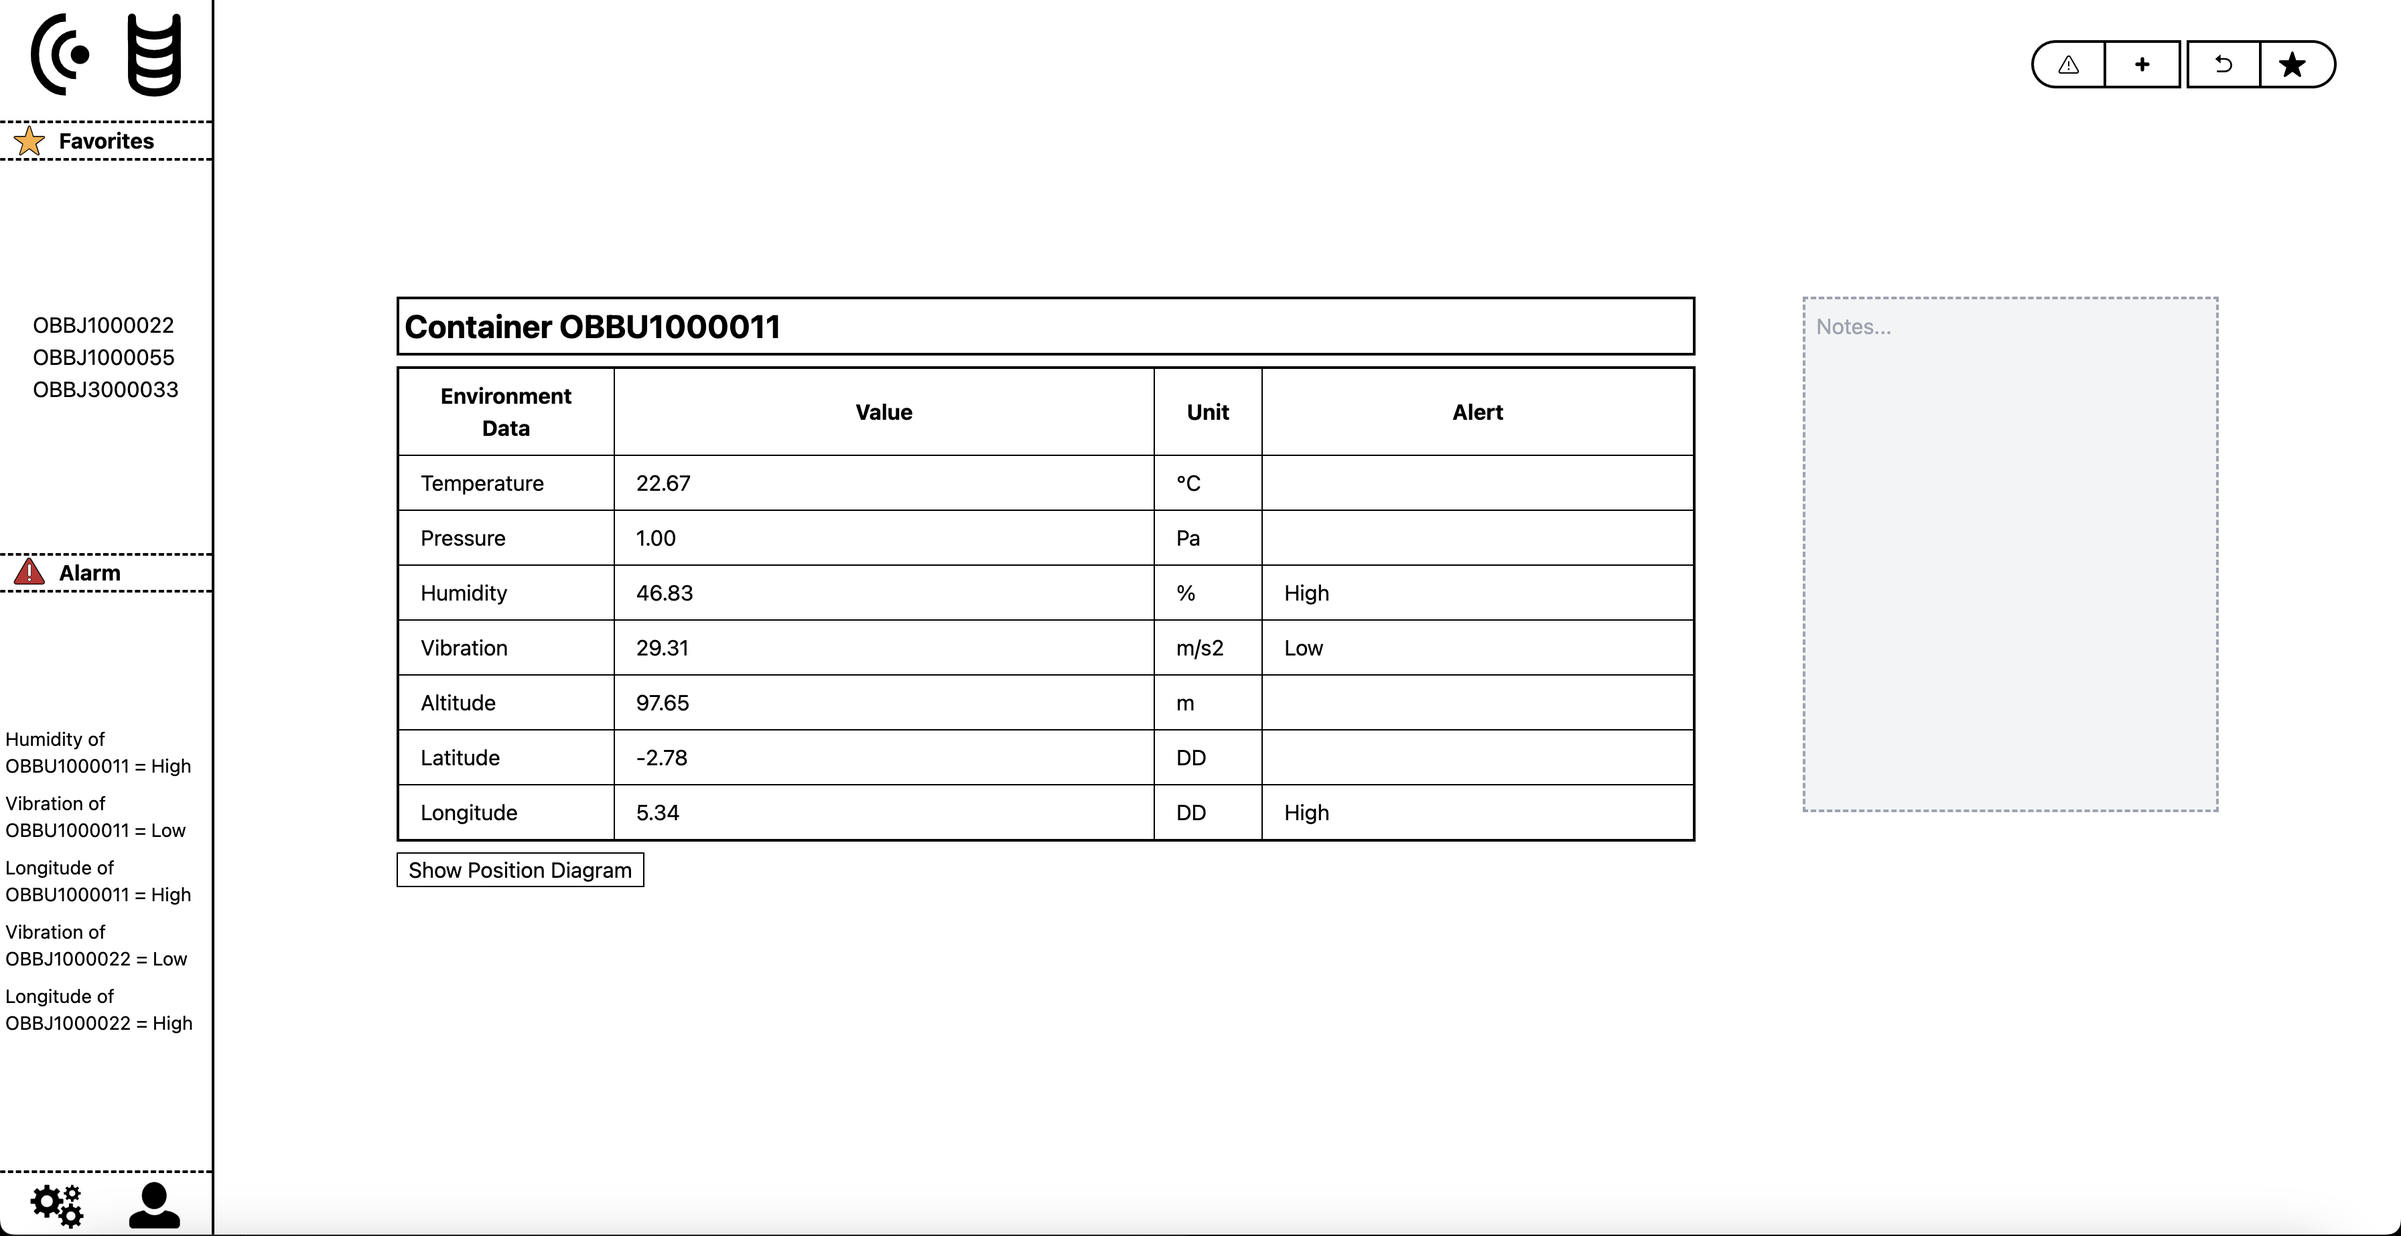
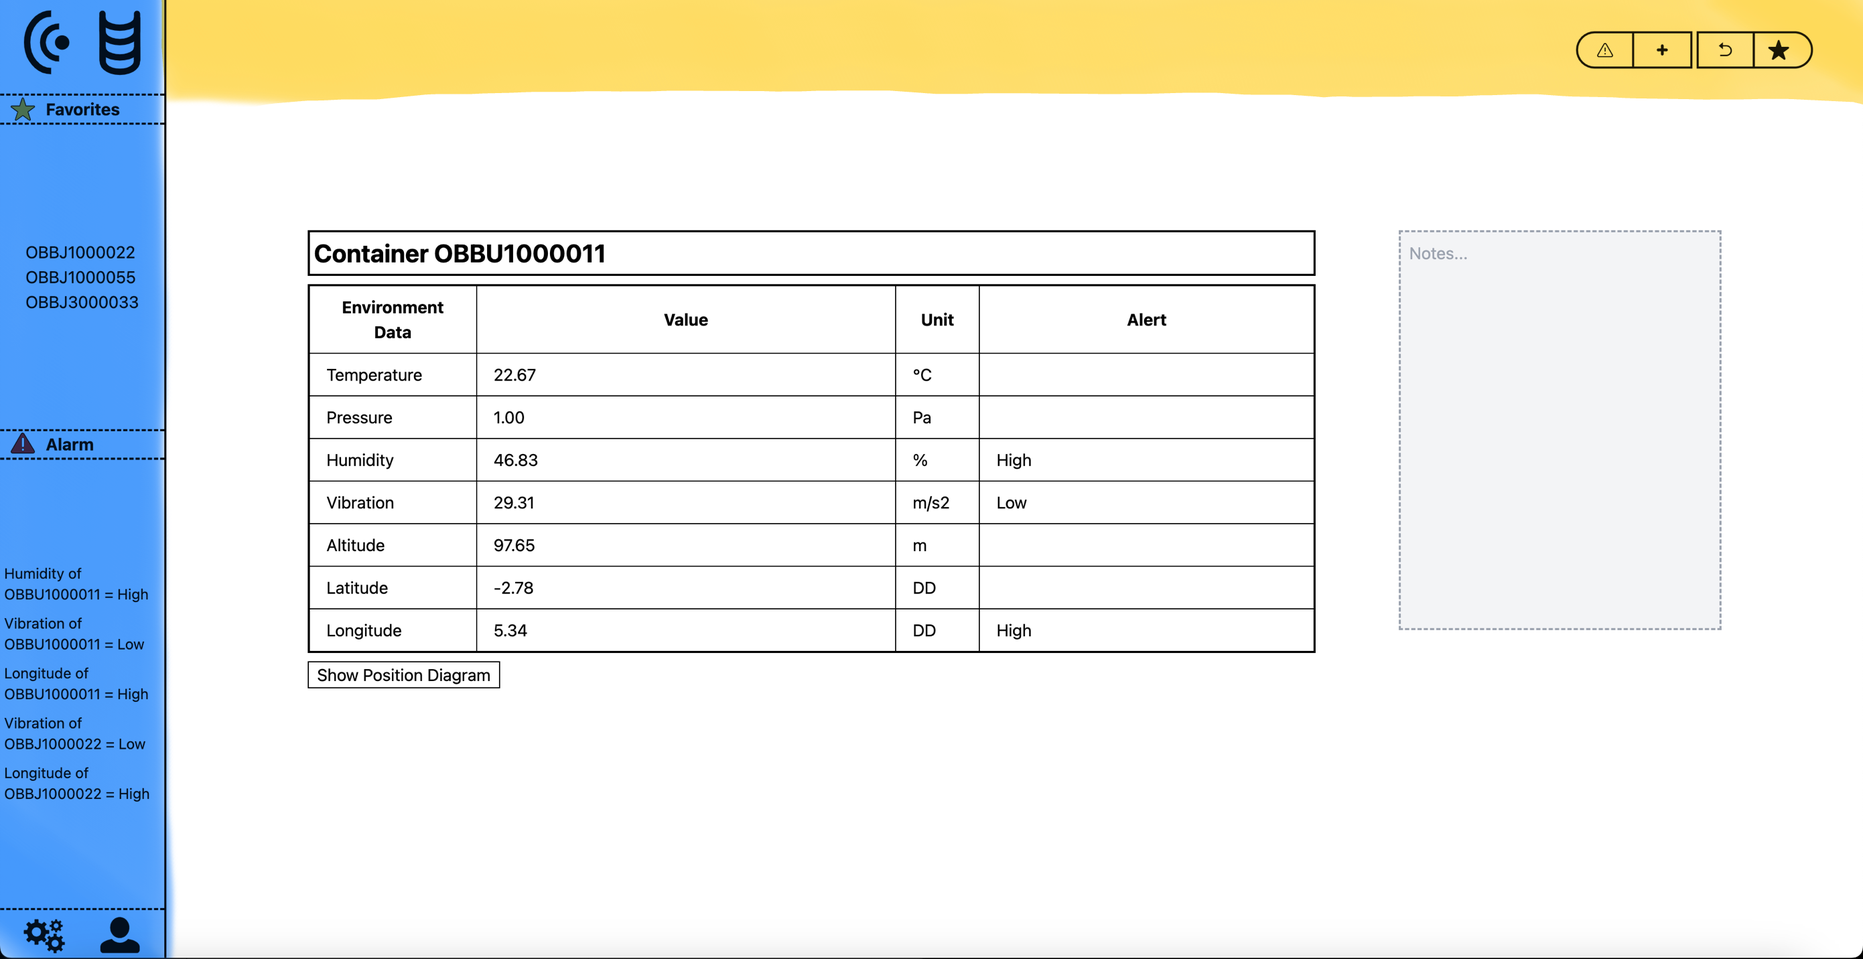
33-Gekle slight updates to text and pictures #77

Changed region(s): [[0.0, 0.0, 1.0, 1.0]]

diff --git a/Diplomarbeit/33-ausarbeitung-gekle.md b/Diplomarbeit/33-ausarbeitung-gekle.md
@@ -568,6 +568,8 @@ Als Basis-Signal wurde willkürlich 15 hergenommen, dieser Wert wird dann um ein
 
 Was würde es nun bewirken, wenn `randomNum` weiter verstreut wird (z. B., 0.1 bis 10)? Würde man diese Umstellung im Simulator umsetzen, dann steigt der Wert, um welchen das Basis-Signal (15) erhöht werden KANN (auch eine Verringerung ist natürlich möglich). Dies bedeutet, dass der Wahrscheinlichkeit, dass folgender Fall eintrifft: `cont.getSignalMinimum() <= signal => TRUE` steigt, was wiederum bedeutet, dass die Vernetzung zwischen den Containern dichter wird. Anders sinkt die Eintritts-Wahrscheinlichkeit des Ausdrucks, wenn `randomNum` verringert wird (z.B. auf 0.01 bis 0.1).
 
+Es sollte angemerkt werden, dass der Simulator nicht 100% realitätsgetreu ein Netz an Containern erstellen kann. So wird z.B. noch nicht gewährleistet, dass die empfangene Stärke des Signals mit steigender Distanz zum Ausgangs-Container absinkt. Dies kann aber in Zukunft noch umgesetzt werden.
+
 #### Verwendung der Daten (Funktionen des Simulators)
 Ist die Anzahl der Container erst einmal eingegeben, so wird der User mit folgendem konfrontiert:
 
@@ -795,7 +797,7 @@ function applyHighlight(nodeId) {
 ```
 [vgl. @gpt-D3jsDGScript-Erweiterung]
 
-Natürlich ist es auch möglich, per Klick einen anderen Container auszuwählen. Dies ist möglich, da die Knoten über `.on('click', highlightNode)` die `highLightNode` Methode aufruft, welche die ID des angeklickten Knotens übernimmt und an die oben angeführte `applyHighlight` weitergibt. [vgl. @gpt-D3jsDGScript-Erweiterung]
+Natürlich ist es auch möglich, per Klick einen anderen Container auszuwählen. Dies ist möglich, da die Knoten über: `.on('click', highlightNode)`, die `highLightNode` Methode aufrufen, welche die ID des angeklickten Knotens übernimmt und an die oben angeführte `applyHighlight` weitergibt. [vgl. @gpt-D3jsDGScript-Erweiterung]
 
 
 Basierend auf dem `graphSpecific.json` aus dem Kapitel *Exportieren in JSON Files* würde als Ergebnis des Dragable-Graph-Skripts folgender Graph entstehen:
@@ -819,9 +821,11 @@ Ein umfangreicherer Graph, welcher aus einer Simulation mit 16 Containern entsta
 Bevor die Website überhaupt mithilfe von React umgesetzt werden konnte, musste ein Design entworfen werden, mit welchem sich alle Beteiligten der Diplomarbeit ein Bild machen konnten, wie die Webanwendung letztendlich aussehen sollte. Die Umsetzung erfolgte über das Vektorgraphikprogramm Adobe Illustrator. 
 Die Website wurde primär auf 3 Seiten aufgeteilt:
 
-- Login Page
-- Main Page
-- Detail Page
+- Login Page (`/`)
+- Main Page (`/main`)
+- Detail Page (`/detail/:shipId/:containerId`)
+
+Da es sich bei dem Projekt um eine Single-Page-Application handelt, sind die oben angeführten Pages nicht tatsächliche eigene HTML-Dokumente, welche eine Seite repräsentieren, sondern funktionelle Komponente. Speziell jedoch die 3 Komponenten, mit verschiedenen Routes (siehe Klammer in der Aufzählung). 
 
 ##### Login Page
 Die Login Page ist selbstverständlich für die Anmeldung des Users verantwortlich. Im Rahmen der Diplomarbeit beschränkt sich diese aber wirklich nur auf das Anmelden und bietet daher keine Funktion zum Anlegen/ Registrierung eines neuen Users. Des Weiteren sollte die "voll-umfangende" Version des Logos, welches ebenfalls in Adobe Illustrator erstellt wurde, zu sehen sein.
@@ -853,6 +857,8 @@ Der Erstentwurf wurde dann von den an der Diplomarbeit Beteiligten analysiert. D
 In der Login Page wurde mittels eines Hyperlinks die Möglichkeit bereitgestellt, auf eine Impressum & Kontakt-Seite zu gelangen. Die Detailpage wurde um eine Notizfunktion erweitert, mit welcher der User eigene Notizen zu den jeweiligen Containern verschriftlichen kann. Diese wird links neben der Tabelle zu sehen sein. 
 
 Die Main Page wurde mit großem Abstand am stärksten verändert. Bei der Containerzoom-Funktion wurde der Button von links nach rechts verschoben, wo sie die Vor- und Zurückfunktion ersetzte. Daneben wurde eine Anzeige des aktuellen Zooms hinzugefügt. Anstelle des Zoom Button wurde auf der linken Seite ein "ShipSelect" Button eingeführt, welcher das Wechseln des Schiffs ermöglicht. Auch wurde das Design allgemein verbessert.
+
+Auch bei der Detail Page wurde vor allem die Topbar funktionstechnisch stark verändert, um etwa die Thresholds einsehen zu können. Zusätzlich würde ein Button hinzugefügt, welcher den Dragable Graphen aufruft. 
 
 Eine völlig neue Komponente war der ShipChooser-Dialog. Dieser wird aufgerufen, wenn auf einen durch das Grid angezeigten Container geklickt wird. Angenommen ein Container repräsentiert zehn Container, dann kann über den Dialog noch ausgewählt werden, welchen Container man genau haben möchte und man wird dann zu der passenden Detail Page weitergeleitet. Das Design dieses Dialogs, wurde auch für weitere spätere Dialoge verwendet. 
 
@@ -909,7 +915,7 @@ Wie auch die MainPage unterteilt sich die Detail Page in 3 große Komponenten:
 
 ![Struktur der Detail Page](img/Gekle/DetailPageStructure.png)
 
-Die `Detailspace`-Komponente ist sehr "funktionsreich", da sie einerseits die Seriennummer und Umweltdaten des ausgewählten Containers anzeigt. Zusätzlich werden die Thresholds überprüft und sollte einer aktiviert sein, wird dies auch in der Tabelle angezeigt. Die Möglichkeit, Notizen, welche auch gespeichert werden, hinzuzufügen, zählt ebenfalls zu den Aufgaben der `DetailSpace`. Der Button unterhalb der Tabelle öffnet in einem neuen Browser-Tab einen Graphen, welcher das ausgewählte Schiff mit seinen Containern repräsentiert. In der `Topbar` ist die Suchleiste verfügbar (ohne `ShipSelect`) und die `DetailControl`-Komponente, welche Funktionen zum Anzeigen aller Thresholds und Zurückgehen zur MainPage bietet.
+Die `Detailspace`-Komponente ist sehr "funktionsreich", da sie einerseits die Seriennummer und Umweltdaten des ausgewählten Containers anzeigt. Zusätzlich werden die Thresholds überprüft und sollte einer aktiviert sein, wird dies auch in der Tabelle angezeigt. Die Möglichkeit, Notizen, welche auch gespeichert werden, hinzuzufügen, zählt ebenfalls zu den Aufgaben des `DetailSpace`. Der Button unterhalb der Tabelle öffnet in einem neuen Browser-Tab einen Graphen, welcher das ausgewählte Schiff mit seinen Containern repräsentiert. In der `Topbar` ist die Suchleiste verfügbar (ohne `ShipSelect`) und die `DetailControl`-Komponente, welche Funktionen zum Anzeigen aller Thresholds und Zurückgehen zur MainPage bietet.
 
 #### Funktionsweise der Komponenten
 ##### LoginField der LoginPage
@@ -922,10 +928,10 @@ Die Login Page verwaltet zwei `useState`-Variablen: `username` und `password`. F
 
 ![LoginFields (Gelb markiert)](img/Gekle/Loginfields.png){width=33%}
 
-Innerhalb der Komponente wird ein HTML `input`-Tag benutzt. Input kann verschiedene Typen annehmen, wie hier etwa "text" und "password". Dem `LoginField` werden auch alle weiteren wichtigen Daten für das Input übergeben, wie etwa den Placeholder und den Wert (Value) den der User eingibt. Die Variable `isPassword` bestimmt, ob "text" oder "password" als Passwort angenommen wird und infolgedessen, ob der Text im `LoginField` als Plaintext oder ob der Text maskiert wird. [vgl. @GeeksForGeeks-HTMLInputTag]. Wird `onChange` innerhalb verändert, sprich der User gibt etwas Neues ein oder editiert bereits eingegebenes, dann gibt das `LoginField` den neuen Wert an die Login Page zurück, wo sie dann mit `setPassword/ setUsername` des `useState` auch wieder verändert werden.
+Innerhalb der Komponente wird ein HTML `input`-Tag benutzt. Input kann verschiedene Typen annehmen, wie hier etwa "text" und "password". Dem `LoginField` werden auch alle weiteren wichtigen Daten für das Input übergeben, wie etwa den Placeholder und den Wert (Value) den der User eingibt. Die Variable `isPassword` bestimmt, ob "text" oder "password" als Passwort angenommen wird und infolgedessen, ob der Text im `LoginField` als Plaintext oder ob der Text maskiert wird. [vgl. @GeeksForGeeks-HTMLInputTag]. Bei `onChange`, sprich der User tippt etwas Neues ein oder editiert bereits eingegebenes, gibt das `LoginField` den neuen Wert an die Login Page zurück, wo es dann mit `setPassword/ setUsername` des `useState` auch wieder verändert wird.
 
 ##### Workspace (MainPage)
-Die **Workspace** Komponente selbst übernimmt zwei Variablen aus der MainPage: `gridSize`, welche dem aktuell ausgewählte Grid entspricht und `selectedShip`, also das momentan ausgewählte Schiff. Die zentrale Aufgabe des Workspace, das Anzeigen der Container, wird von der **renderGrid**-Methode:
+Die **Workspace** Komponente selbst übernimmt zwei Variablen aus der MainPage: `gridSize`, welche dem aktuell ausgewählte Grid entspricht und `selectedShip`, also das momentan ausgewählte Schiff. Die zentrale Aufgabe des Workspace, das Anzeigen der Container, wird von der **renderGrid**-Methode übernommen:
 
 ```{caption="renderGrid Methode" .js}
 const renderGrid = () => {
@@ -1041,7 +1047,7 @@ export default distributeValues;
 
 Wurde dies nun errechnet, beginnt die eigentliche **renderGrid** Methode. Auch diese arbeitet mit einer verschachtelten `for`-Schleife, um durch die einzelnen Grid-Spots durchzuiterieren. Hierbei ist auch das Array des ``ContainerDistributer`` wichtig, da es bestimmt, wie lange die Schleifen anhalten sollen. Pro Spot wird dann ein HTML-`div` zu einem Array hinzugefügt (mit `.push(<div\> <\/div>)`). Jedes dieser Divs hat durch die Rechnung $Row - Column$ (aus den For Schleifen) eine eindeutige Id welche etwa dafür wichtig ist, dass wenn man über das jeweilige Div hovert nur dieses eine hervorgehoben wird. Außerdem wird über `onClick` bestimmt, dass im Falle des klicken auf ein `div` die `handleOpenDialog` aufgerufen wird, mit welcher der Dialog zum Aussuchen des richtigen realen Containers geöffnet wird.
 
-Die zweite wichtige Methode ist also die **handleOpenDialog** Methode, welche den eben erwähnten Dialog öffnet. Sie liest mit der eindeutigen Id der Sammel-Container aus einer in einem `useEffect` erstellten Map. Diese ordnet jedem Sammel-Container mithilfe ihrer eindeutigen Id die realen Container Ids (Mehrzahl!!) zu. Die realen Ids waren zuvor in dem `useState` Array `containerIds` in zufälliger Reihenfolge gespeichert und nun werden nur die passenden in die `dialogValues useState` gespeichert. Zusätzlich wird mithilfe der `isDialogOpen useState` der Dialog geöffnet. Das `ContainerChooser` Element (der Dialog) ist hier zu sehen:
+Die zweite wichtige Methode ist also die **handleOpenDialog** Methode, welche den eben erwähnten Dialog öffnet. Sie liest mit der eindeutigen Id der Sammel-Container aus einer in einem `useEffect` erstellten Map alle Ids der Container auf dem jeweiligen Schiff. Diese ordnet jedem Sammel-Container mithilfe ihrer eindeutigen Id die realen Container Ids (Mehrzahl!!) zu. Die realen Ids waren zuvor in dem `useState` Array `containerIds` in zufälliger Reihenfolge gespeichert und nun werden nur die passenden in die `dialogValues useState` gespeichert. Zusätzlich wird mithilfe der `isDialogOpen useState` der Dialog geöffnet bzw. geschlossen. Das `ContainerChooser` Element (der Dialog) ist hier zu sehen:
 ```{caption="ContainerChooser Komponente Nutzung" .js}
 <ContainerChooser
 	open={isDialogOpen}
@@ -1066,7 +1072,7 @@ const handleSelect = (value) => {
 };
 ```
 
-![ContainerChooser Dialog mit 9 Containern](img/Gekle/ContainerChooserExample.png)
+![ContainerChooser Dialog mit 9 Containern](img/Gekle/ContainerChooserExample.png){width=70%}
 
 Wichtig: auch wenn ein Sammel-Container (das `div`) nur einen oder gar keinen realen Container repräsentiert, wird trotzdem der Dialog geöffnet. Sollte keiner vorhanden sein, so ist nur der Close-Button zu sehen.
 
@@ -1077,7 +1083,7 @@ Der Nutzen der MainPage wird durch die `TopBar` sehr stark erweitert. Dies liegt
 2. Sie bietet eine Suchleiste, mit welcher man über die SerienNummer direkt den ContainerChooser Dialog geöffnet werden kann.
 3. Sie ermöglicht es, das Schiff zu wechseln.
 
-Die `Topbar` ist konfigurierbar, das bedeutet, man kann ihr je nach Anwendungszweck verschiedene weitere Komponenten übergeben. Hierbei kann man zwischen "Left" und "Right" unterscheiden, also ob man die Komponente linksbündig oder rechtsbündig haben möchte. Hier etwa die Erstellung der Topbar für die Main Page:
+Die `Topbar` ist konfigurierbar. Dies bedeutet, man kann ihr je nach Anwendungszweck verschiedene Komponenten übergeben. Hierbei kann man zwischen "Left" und "Right" unterscheiden, also ob man die Komponente linksbündig oder rechtsbündig haben möchte. Als Beispiel die Erstellung der Topbar für die Main Page:
 
 ```{caption="Verschiedene Nutzung der Topbar Komponente in der MainPage" .js}
 <Topbar
@@ -1138,7 +1144,7 @@ Im Kontext der MainPage ist die einzige rechts positionierte Komponente das **Gr
 )}
 ```
 
-Ist `showDropDown` nun TRUE, kommt die `.map` Funktion zum Einsatz. Diese hilft dabei, durch jedes Objekt der `gridOptions` durchzuiterieren, und pro Objekt (in diesem Fall `option`) wird ein neues HTML `List`-Item (\<li>) innerhalb einer Unordered List (\<ul>) angelegt. [vgl. @Ionos-JS-map] Jedes dieser List-Items repräsentiert eine Auswahlmöglichkeit des DropDown Menüs. Mithilfe des `labels` wird jedes eindeutig identifiziert und mittels `rows und cols` (aus dem `gridOptions` Array) wird dem User die dazu passende Grid Option angezeigt. Über `onClick` wird noch definiert, dass die `handleSelectGrid`-Methode aufgerufen werden soll, in welcher `showDropDown` wieder auf FALSE gesetzt und die `gridSize` Variable aus der MainPage über setGridSize, je nach User Auswahl neu gesetzt wird. Diese Änderung übernimmt, da es sich bei `gridSize` um eine useState-Variable handelt, dann auch die MainPage und in weiterer Folge der Workspace. Die Folge: das Grid wird neu gerendert. 
+Ist `showDropDown` nun TRUE, kommt die `.map` Funktion zum Einsatz. Diese hilft dabei, durch jedes Objekt der `gridOptions` durchzuiterieren, wobei pro Objekt (in diesem Fall `option`) wird ein neues HTML `List`-Item (\<li>) innerhalb einer Unordered List (\<ul>) angelegt. [vgl. @Ionos-JS-map] Jedes dieser List-Items repräsentiert eine Auswahlmöglichkeit des DropDown Menüs. Mithilfe des `labels` wird jedes eindeutig identifiziert und mittels `rows und cols` (aus dem `gridOptions` Array) wird dem User die dazu passende Grid Option angezeigt. Über `onClick` wird noch definiert, dass die `handleSelectGrid`-Methode aufgerufen werden soll, in welcher `showDropDown` wieder auf FALSE wird und die `gridSize` Variable aus der MainPage über setGridSize, je nach User Auswahl neu gesetzt wird. Diese Änderung übernimmt, da es sich bei `gridSize` um eine useState-Variable handelt, dann auch die MainPage und in weiterer Folge der Workspace. Die Folge: das Grid wird neu gerendert. 
 
 Zusätzlich soll direkt neben dem `div`, welches das Zoom-Icon repräsentiert, ein zweites `div` erstellt werden, welches den aktuellen Status von `gridSize.rows` und `gridSize.cols` anzeigt. Der Aufbau des GridDropDowns sieht also simpel dargestellt so aus:
 ```{caption="HTML Aufbau GridDropDown" .html}
@@ -1280,7 +1286,7 @@ if (updateResponse.status === 204) {
 ```
 [vgl. @FreeCodeCamp-setTimeOut]
 
-![Notizen mit erfolgreicher Update-Benachrichtigung](img/Gekle/UpdatedNotes.png)
+![Notizen mit erfolgreicher Update-Benachrichtigung](img/Gekle/UpdatedNotes.png){width=70%}
 
 ##### Komponenten der Topbar der DetailPage
 Die Topbar innerhalb der Detailpage ist nicht dieselbe, wie in der MainPage. Die Unterschiede sind folgende:
@@ -1295,7 +1301,7 @@ Die Topbar innerhalb der Detailpage ist nicht dieselbe, wie in der MainPage. Die
 1. Button um festgelegte Thresholds des Containers sich ausgeben zu lassen
 2. Button um zur MainPage zurückzugelangen
 
-![Topbar der DetailPage](img/Gekle/SearchbarDetail.png)
+![Topbar der DetailPage; blau = linksbündig; gelb = rechtsbündig](img/Gekle/SearchbarDetail.png)
 
 Die Retour Funktion nutzt wieder `useNavigate` von `react-router-dom`, indem durch das Klicken auf das `div`, welches hinter dem Retour-Icon liegt, `navigate('/main')` ausgeführt wird. Dadurch gelangt der User zurück auf die MainPage.
 
@@ -1309,14 +1315,14 @@ Innerhalb von `DetailControl` versteckt sich hinter dem Alarm-Icon, welches den 
 
 Klickt der User also auf das Alarm-Icon, dann wird in der DetailPage die `handleThresholdViewerToggle`-Methode aufgerufen, welche den Stand der `thresholdViewOpen useState` von FALSE auf TRUE bzw. von TRUE auf FALSE setzt. Ist diese Variable TRUE, so wird folgender Dialog geöffnet: `ThresholdViewer`.
 
-**ThresholdViewer** fragt für den aktuell ausgewählten Container alle Thresholds aus dem Backend ab und wandelt diese in einen gut lesbaren Zustand ("Satzform") um (=**Satzform**):
+**ThresholdViewer** fragt für den aktuell ausgewählten Container alle Thresholds aus dem Backend ab und wandelt diese in einen gut lesbaren Zustand (=**Satzform**) um:
 
-![Threshold Viewer Dialog](img/Gekle/ThreshholdViewer.png)
+![Threshold Viewer Dialog](img/Gekle/ThreshholdViewer.png){width=80%}
 
 So wird z.B. angegeben, dass folgender Threshold existiert: Wenn die Latitude (Breitengrad) < als 90 Grad ist, dann befindet sich Latitude im kritischen Zustand. Wie auch der `ContainerChooser` besitzt dieser Dialog folgenden Code innerhalb eines Close `Button` : `onClick={onClose}`.
 
 ##### Sidebar
-Die Sidebar ist als Komponente in dem Sinn einzigartig, dass sie sowohl innerhalb der `MainPage` als auch der `DetailPage` gleich aussieht und denselben Zweck erfüllt. Sie setzt sich generell aus mehreren untereinander gereihten `divs` welche alle unterschiedlich viele Prozent der gesamten Höhe der Sidebar einnehmen:
+Die Sidebar ist als Komponente in dem Sinn einzigartig, dass sie sowohl innerhalb der `MainPage` als auch der `DetailPage` gleich aussieht und denselben Zweck erfüllt. Sie setzt sich generell aus mehreren untereinander gereihten `divs` welche alle unterschiedlich viele Prozent der gesamten Höhe der Sidebar einnehmen außeinander:
 
 - Logo-div (10%) --> enthält Logo
 - Favoriten-div (32%) --> enthält die als Favoriten markierten Container-Seriennummern
@@ -1325,7 +1331,7 @@ Die Sidebar ist als Komponente in dem Sinn einzigartig, dass sie sowohl innerhal
 
 Zwischen dem ersten, zweiten und zweiten, dritten `div` befindet sich jeweils noch ein weiteres, welches 3% der Höhe einnimmt und anschreibt, worum es sich bei dem darunter liegenden `div` handelt (Favoriten oder Alarm). Bei dem Alarm- und Favoriten-div ist es zusätzlich möglich, auf und ab zu scrollen, sollte sich die Anzahl der angezeigten Container-Nummern nicht ausgehen. Ihren Inhalt entnehmen die beiden aus `useStates` (`alerts` für die Alerts und `favoritesSerialNumbers` für die Favoriten), welche über `useEffects` die aktuellen Daten aus dem Backend speichern. 
 
-![Aufteilung der Sidebar in Prozenten](img/Gekle/SidebarPercentages.png){width=80%}
+![Aufteilung der Sidebar in Prozenten](img/Gekle/SidebarPercentages.png){width=60%}
 
 Die Dialoge, welche über Buttons am unteren Ende der Sidebar aufgerufen werden können, sehen gleich aus wie der `ContainerChooser`-Dialog. Die Funktionalität des `UserProfile`-Dialogs ist lediglich, eine Möglichkeit zu bieten, den User auszuloggen und an die `LoginPage` zurückzuschicken. Der `Settings`-Dialog wurde nur zum Zweck der Vollständigkeit und Ausbauunfähigkeit der Website eingefügt. Er lässt sich aufrufen, hat aber keine implementierten Funktionalitäten.
 
